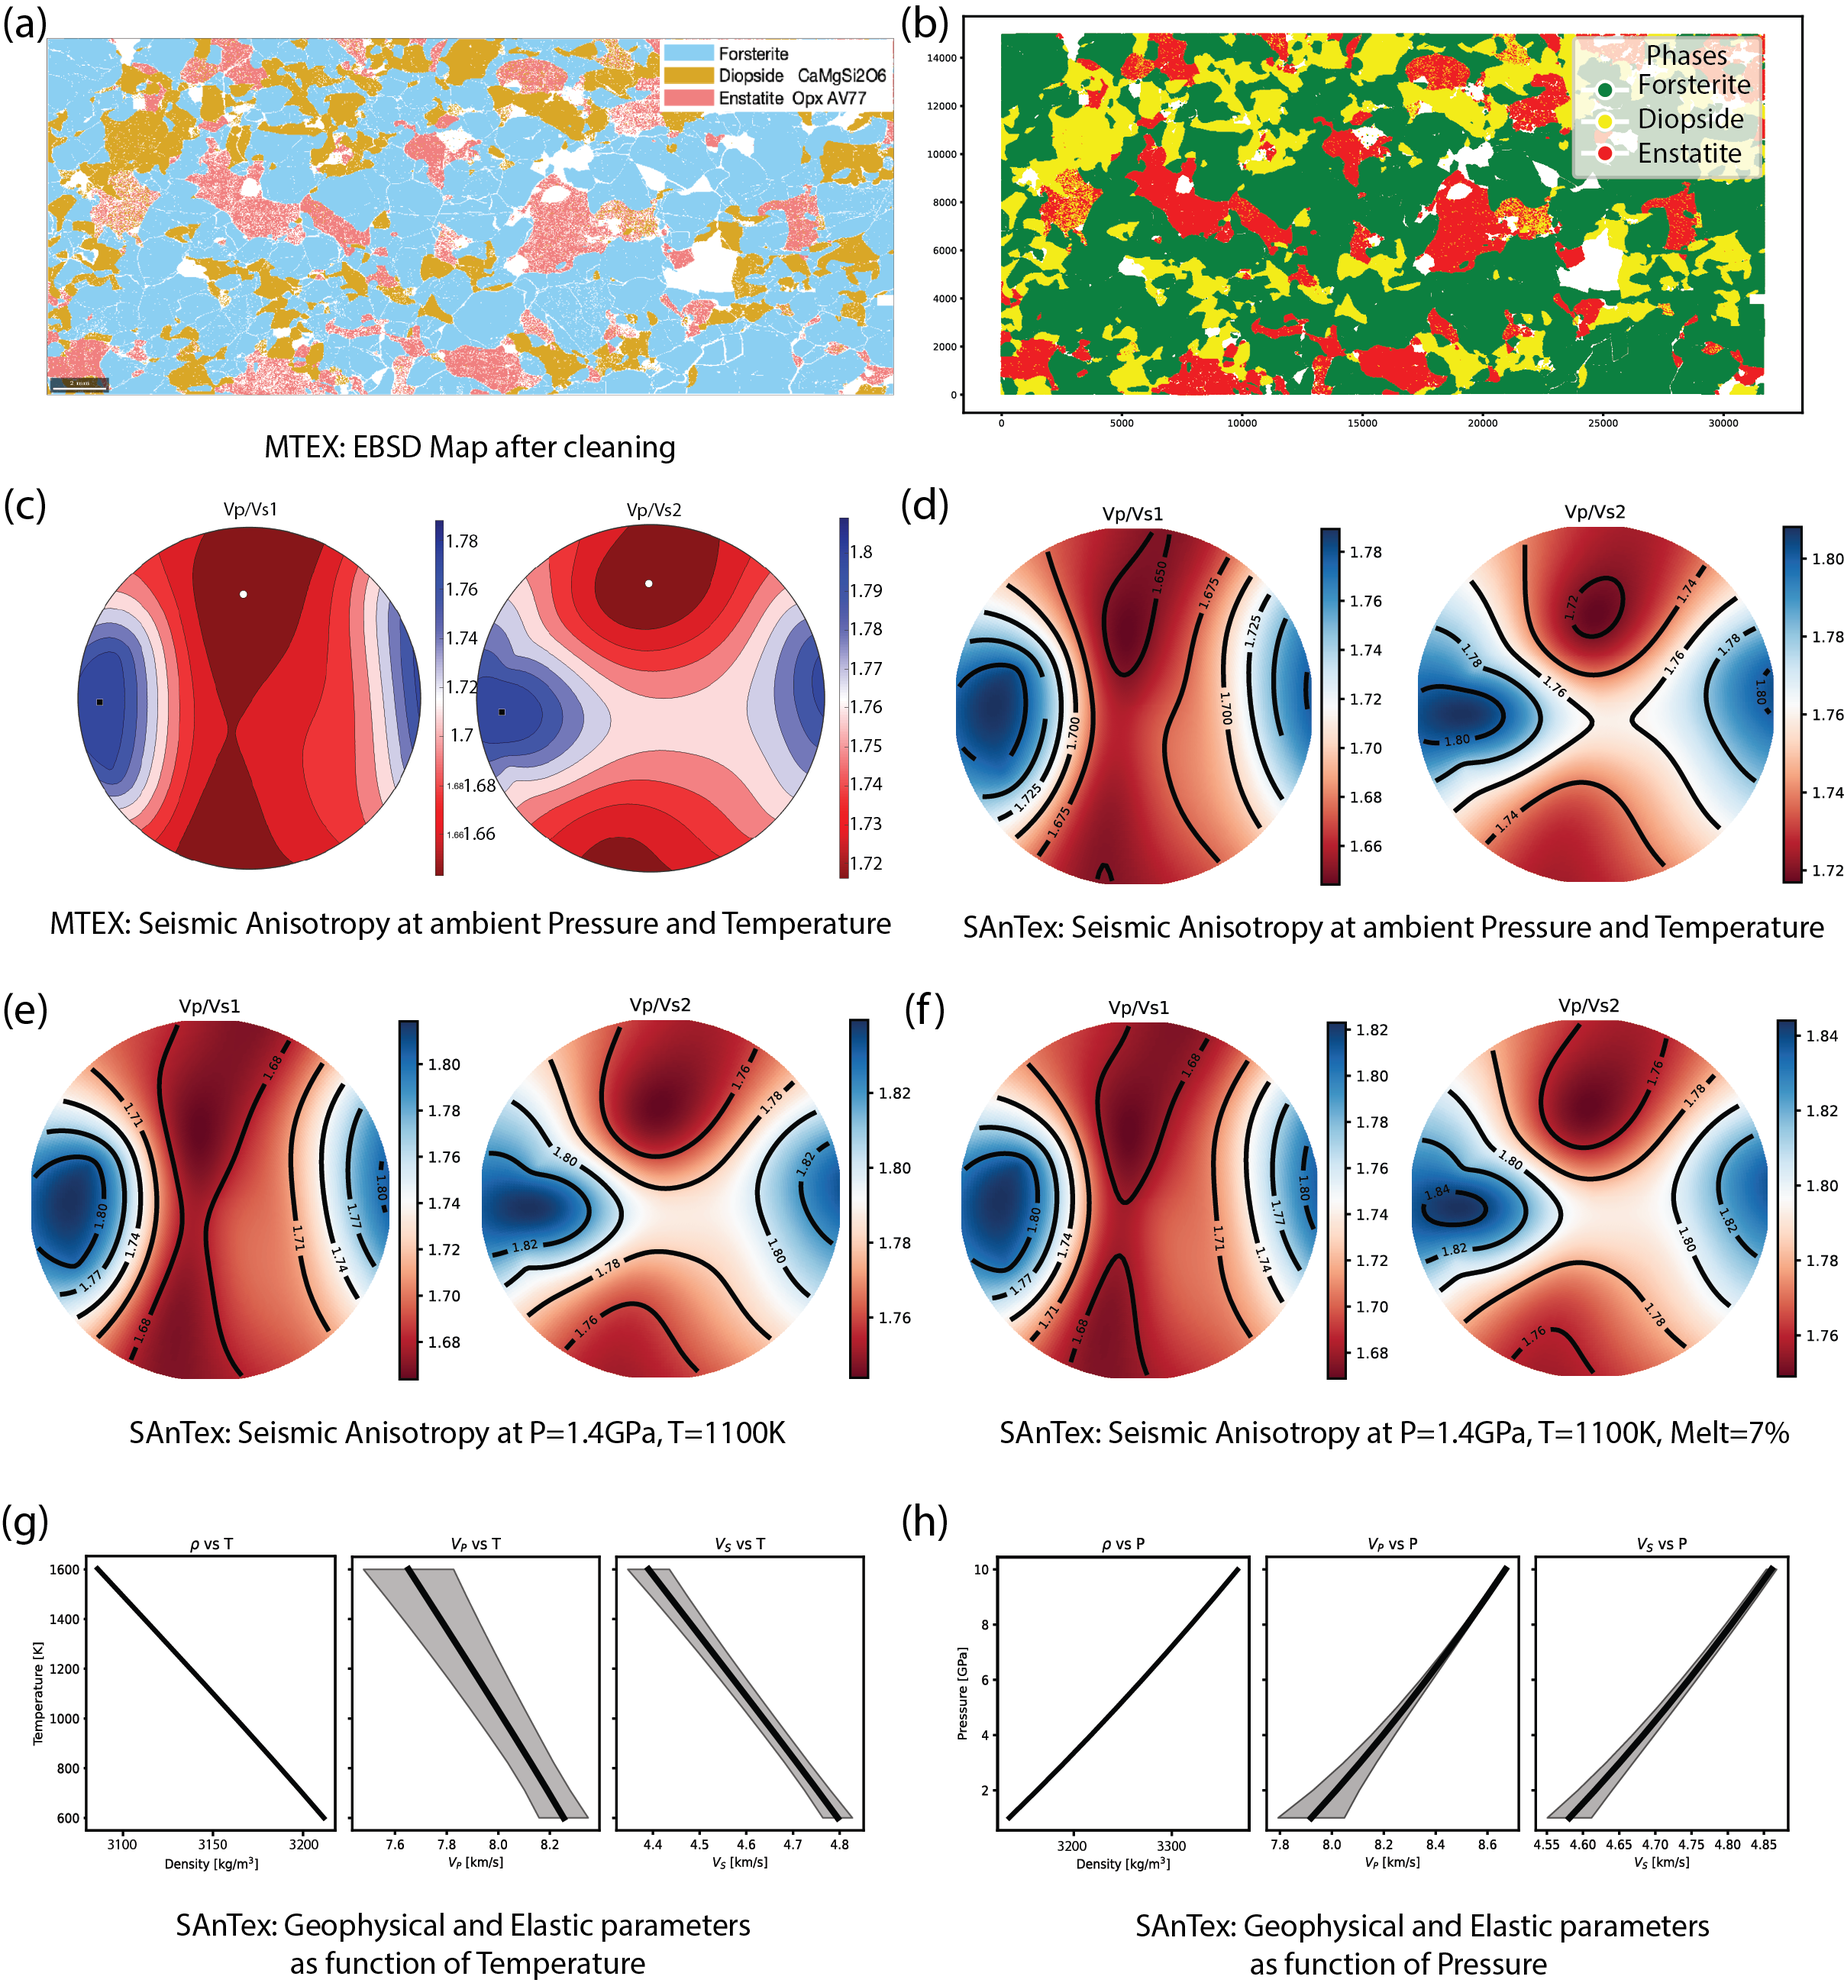
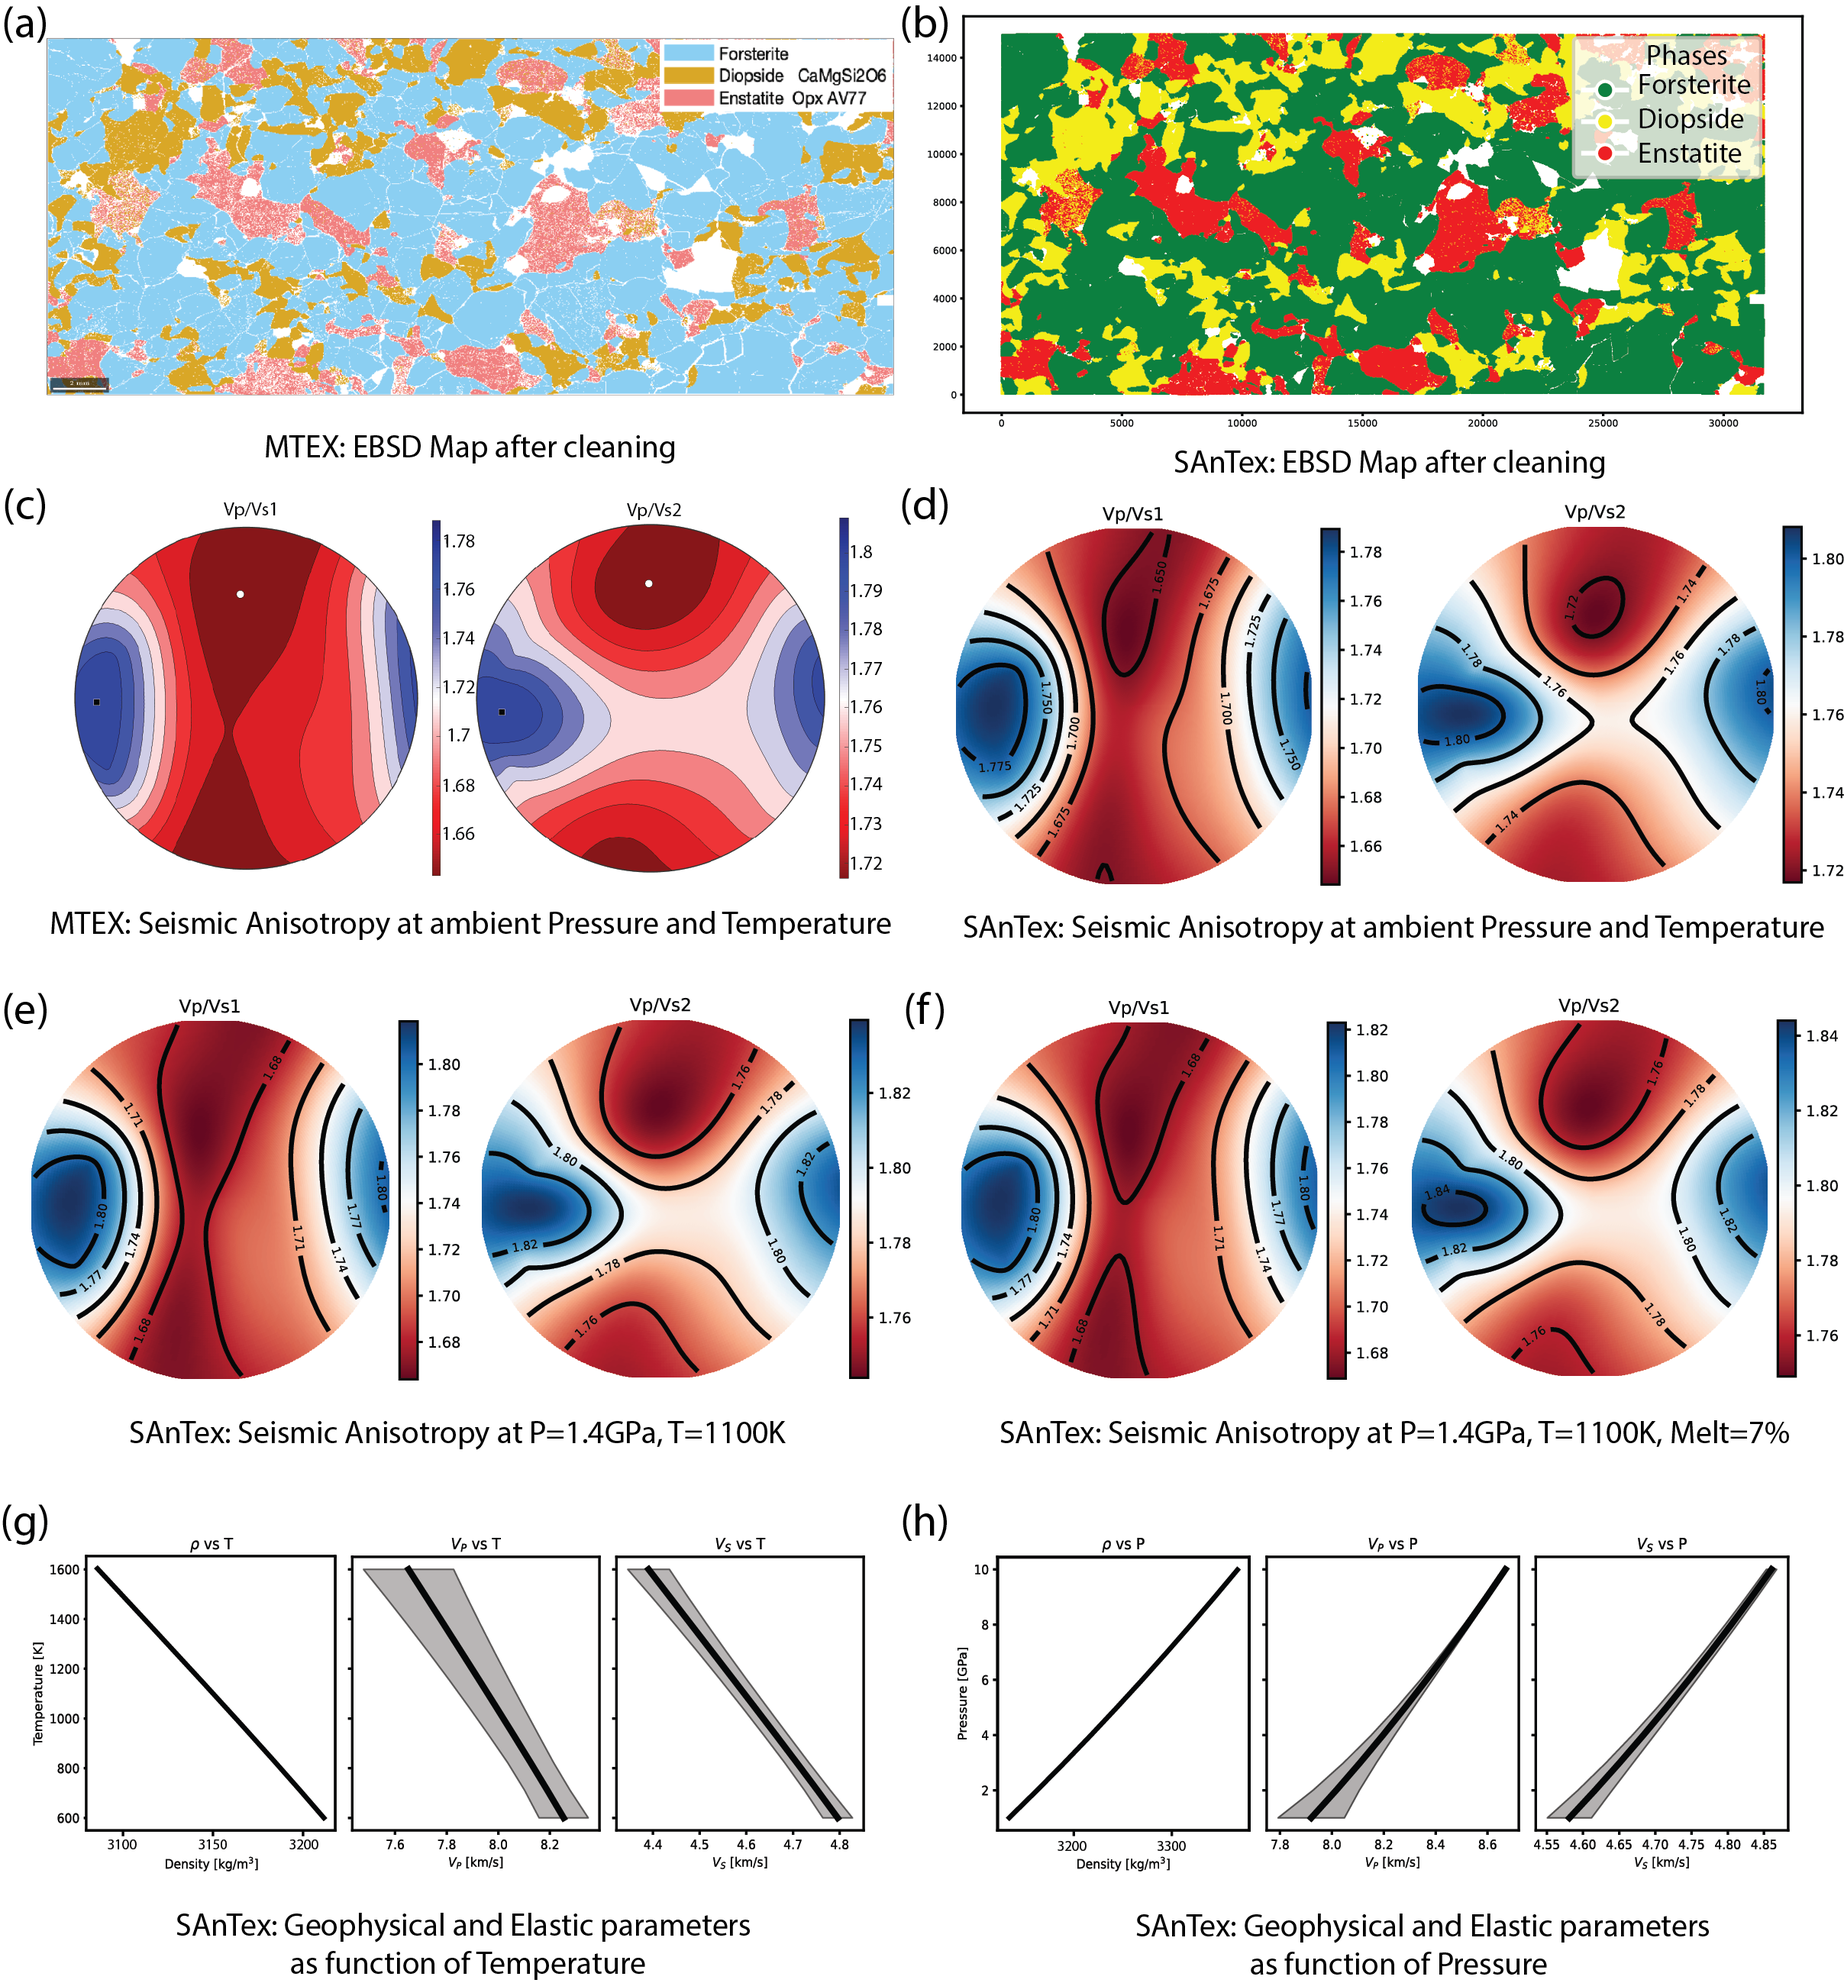
modify paper for Hashin-Shtrikman bound and figure

Changed region(s): [[0.1553, 0.2495, 0.2484, 0.4367], [0.0311, 0.2807, 0.1242, 0.4367], [0.6522, 0.2183, 0.8696, 0.2495]]

diff --git a/paper.md b/paper.md
@@ -85,7 +85,7 @@ SAnTex calculates seismic properties from EBSD crystal orientation data using th
 
 4.  Incorporation of the effect of melt on seismic properties through a nonlinear peridotite melting curve between solidus and liquidus (McKenzie & Bickle, 1988). Alternatively, a melt fraction value can be imposed by the user.
 
-The capabilities of SAnTex are tested on previously published data using MTEX for a peridotite xenolith from Marie Byrd Land volcanic province in West Antarctica (Figure 1) [@chatzaras_axial-type_2016; @chatzaras_effects_2023]. Here, we demonstrate the outputs of SAnTex match those generated using MTEX, at ambient pressure and temperature conditions (Figure1c vs d). Higher seismic anisotropies are calculated for the same sample, at equilibration temperature and pressure conditions corresponding to the lithospheric mantle (Figure 1e).  The effect of assumed 7% melt on seismic anisotropies calculated at the same equilibration conditions is shown in Figure 1f. Figure 1g and 1h shows seismic wave velocities and densities as a function of temperature and pressure for the same modal composition. The gray shaded areas show the upper and lower Hashin-Shtrikman bounds, which provide theoretical limits on the effective elastic properties of a composite material based on the volume fractions and properties of its constituent phases..
+The capabilities of SAnTex are tested on previously published data using MTEX for a peridotite xenolith from Marie Byrd Land volcanic province in West Antarctica (Figure 1) [@chatzaras_axial-type_2016; @chatzaras_effects_2023]. Here, we demonstrate the outputs of SAnTex match those generated using MTEX, at ambient pressure and temperature conditions (Figure1c vs d). Higher seismic anisotropies are calculated for the same sample, at equilibration temperature and pressure conditions corresponding to the lithospheric mantle (Figure 1e).  The effect of assumed 7% melt on seismic anisotropies calculated at the same equilibration conditions is shown in Figure 1f. Figure 1g and 1h shows seismic wave velocities and densities as a function of temperature and pressure for the same modal composition. The gray shaded areas show the upper and lower Hashin-Shtrikman bounds, which provide theoretical limits on the effective elastic properties of a composite material based on the volume fractions and properties of its constituent mineral phases.
 
 
 # Package Summary
@@ -98,9 +98,9 @@ SAnTex allows for (Fig. 2):
 3.	Material analysis: Includes a comprehensive mineral catalogue that facilitates the calculation of seismic properties based on a given mineralogical composition. Users may either select phases corresponding to EBSD-determined phase abundances or assume a modal mineral composition.
 4.	Calculation of seismic anisotropy: Computes seismic velocities and anisotropy across a range of pressure (0–13 GPa) and temperature (300–2000 K) conditions (Fig 1d, e, f), and provides interactive 2D and 3D plots for visualizing the results (Figure 3).
 
-5.	Calculation of isotropic velocities: Computes isotropic seismic wave velocities and Hashin Shtrikman bounds (Vp, Vs, and Vbulk), along with the isothermal bulk modulus and density, under geological conditions [@hacker_subduction_2004] (Fig. 1g, h).  The calculated velocities and elastic properties can be fed to geophysical interpretation tools such as pide [@ozaydin_pide_2025].
+5.	Calculation of isotropic velocities: Computes isotropic seismic wave velocities and Hashin-Shtrikman bounds (Vp, Vs, and Vbulk), along with the isothermal bulk modulus and density, under geological conditions [@hacker_subduction_2004] (Fig. 1g, h).  The calculated velocities and elastic properties can be fed to geophysical interpretation tools such as pide [@ozaydin_pide_2025].
 
-![EBSD maps after cleaning using (a) MTEX and (b) SAnTex. Seismic Anisotropy maps using(c) MTEX at ambient pressure and temperature and SAnTex at (d) ambient pressure and temperature, (e) at 1.4 GPa and 1100° K, and (f) 1.4 GPa and 1100° K with 7% silicate melt.  Density, P and S wave velocities against (g) temperature and (h) pressure. The gray shaded areas show the upper and lower Hashin-Shtrikman Bounds scaled by a factor of 1000 to see the difference between lower and upper bounds](santex_fig_1.png){ width=100% }
+![EBSD maps after cleaning using (a) MTEX and (b) SAnTex. Seismic Anisotropy maps using(c) MTEX at ambient pressure and temperature and SAnTex at (d) ambient pressure and temperature, (e) at 1.4 GPa and 1100° K, and (f) 1.4 GPa and 1100° K with 7% silicate melt.  Density, P and S wave velocities against (g) temperature and (h) pressure. The gray shaded areas show the upper and lower Hashin-Shtrikman Bounds scaled by a factor of 1000 to demonstrate the difference between lower and upper bounds](santex_fig_1.png){ width=100% }
 
 ![Workflow of SAnTex with fundamental methods and classes outlined.](santex_fig_2.png){ width=100% }
 
